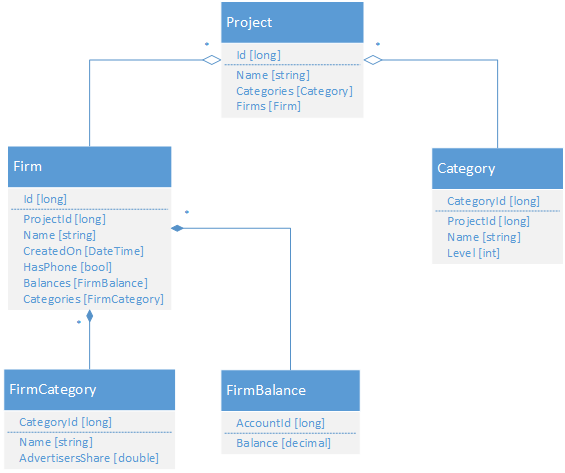
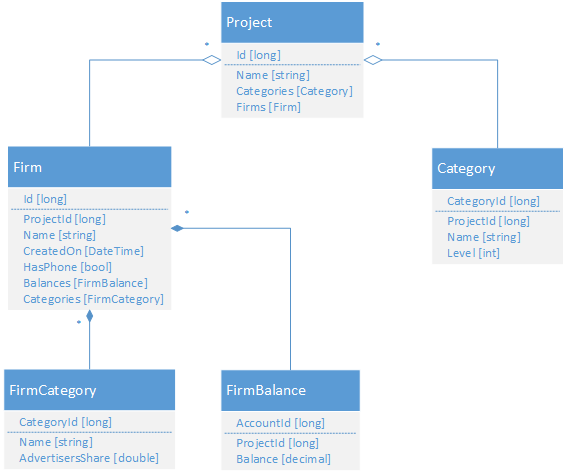
[docs] some fixes

diff --git a/docs/en/desing-overview/README.md b/docs/en/desing-overview/README.md
@@ -53,6 +53,7 @@ StructuralModelElement.Config
 	                	.Name(EntityName.FirmBalance)
 	                    .HasKey("AccountId")
 	                    .Property(EntityPropertyElement.Config.Name("AccountId").OfType(ElementaryTypeKind.Int64))
+	                    .Property(EntityPropertyElement.Config.Name("ProjectId").OfType(ElementaryTypeKind.Int64))
 	                    .Property(EntityPropertyElement.Config.Name("Balance").OfType(ElementaryTypeKind.Decimal))
 	            ).AsMany())
  	        .Relation(EntityRelationElement.Config.Name("Categories")
